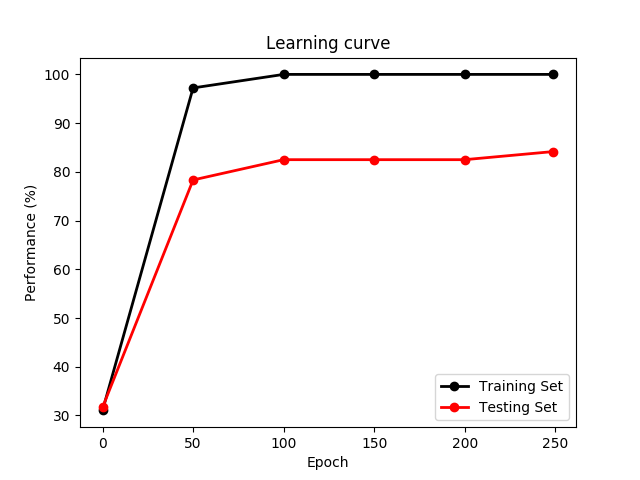
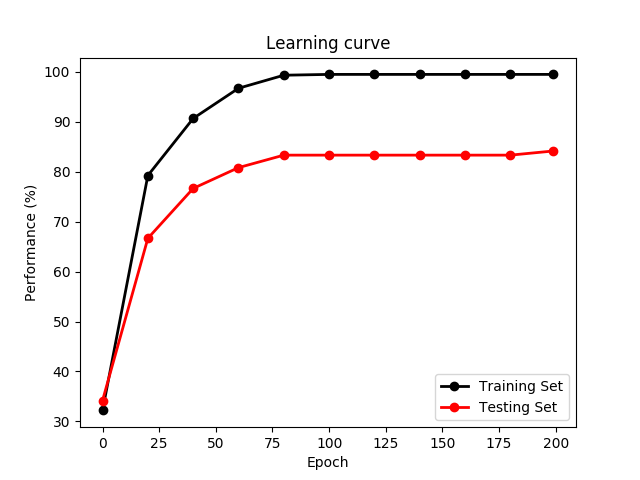
Mini batches for part8

diff --git a/deepfaces.py b/deepfaces.py
@@ -56,15 +56,19 @@ def part8():
     torch.manual_seed(5)
 
     dim_x = 64*64*3
-    dim_h0 = 300
-    dim_h1 = 50
+    dim_h0 = 250
+    dim_h1 = 40
     dim_out = len(act)
 
     dtype_float = torch.FloatTensor
     dtype_long = torch.LongTensor
 
-    x = Variable(torch.from_numpy(train_set[:]), requires_grad=False).type(dtype_float)
-    y_classes = Variable(torch.from_numpy(np.argmax(train_label[:], 1)), requires_grad=False).type(dtype_long)
+    # Using mini-batches for training
+    np.random.seed(5)
+    train_idx = np.random.permutation(range(train_set.shape[0]))[:600]
+
+    x = Variable(torch.from_numpy(train_set[train_idx]), requires_grad=False).type(dtype_float)
+    y_classes = Variable(torch.from_numpy(np.argmax(train_label[train_idx], 1)), requires_grad=False).type(dtype_long)
 
 
     model = torch.nn.Sequential(
@@ -79,7 +83,7 @@ def part8():
 
     epoch, train_perf, test_perf = [], [], []
 
-    learning_rate, max_iter = 1e-4, 250
+    learning_rate, max_iter = 1e-4, 200
     optimizer = torch.optim.Adam(model.parameters(), lr=learning_rate)
     for t in range(max_iter):
         y_pred = model(x)
@@ -90,12 +94,12 @@ def part8():
         optimizer.step()   # Use the gradient information to 
                            # make a step
 
-        if t % 50 == 0 or t == max_iter - 1:
+        if t % 20 == 0 or t == max_iter - 1:
             print("Epoch: " + str(t))
 
             # Training Performance
-
-            y_pred = model(x).data.numpy()
+            x_train = Variable(torch.from_numpy(train_set[:]), requires_grad=False).type(dtype_float)
+            y_pred = model(x_train).data.numpy()
             train_perf_i = (np.mean(np.argmax(y_pred, 1) == np.argmax(train_label, 1))) * 100
             print("Training Set Performance: " + str(train_perf_i) + "%")      
 
